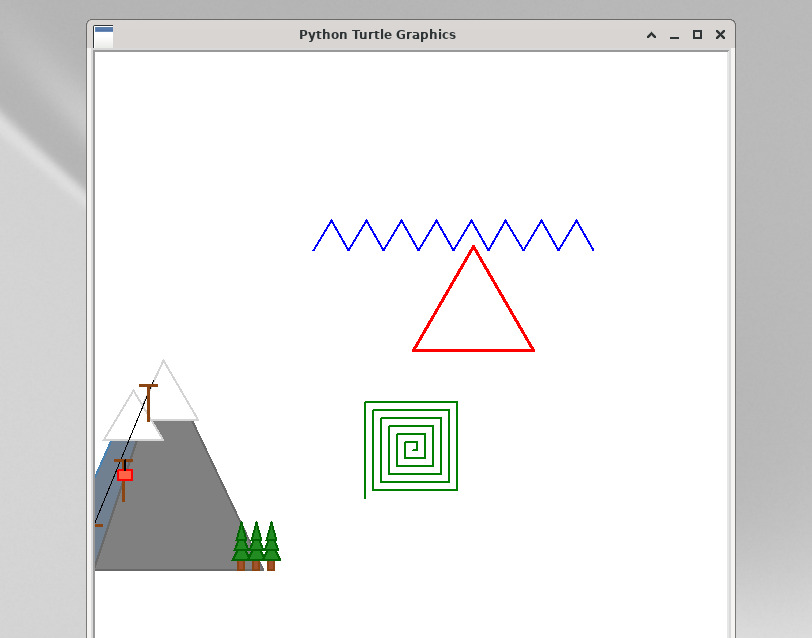
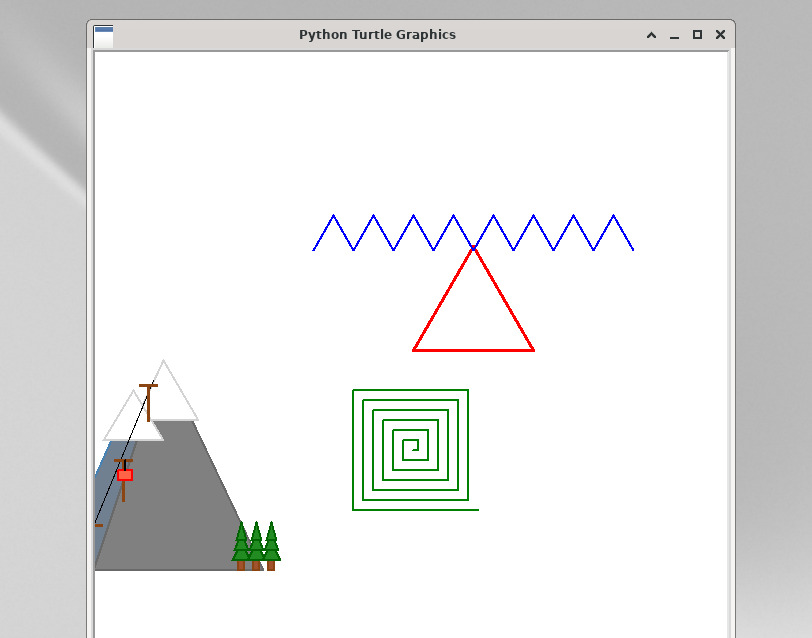
Clarify zigzag 8-peak loop and growing spiral length loop

Changed region(s): [[0.431, 0.5956, 0.585, 0.8041], [0.4002, 0.3276, 0.7081, 0.3871], [0.7389, 0.3276, 0.7697, 0.3574]]

diff --git a/A2Turtle.py b/A2Turtle.py
@@ -1,5 +1,5 @@
 # Assignment written by Jillian Hall
-# uID: REPLACE_WITH_YOUR_UID
+# uID: U1503415
 #
 # Assignment 2 - Turtle Graphics
 
@@ -32,13 +32,14 @@ zigzag.color("blue")
 zigzag.pensize(2)
 zigzag.penup()
 zigzag.goto(-100, 100)
-zigzag.setheading(60)
 zigzag.pendown()
+# Loop draws 8 peaks (each peak is left, forward, right, forward, left)
 for i in range(8):
-    zigzag.forward(35)
+    zigzag.left(60)
+    zigzag.forward(40)
     zigzag.right(120)
-    zigzag.forward(35)
-    zigzag.left(120)
+    zigzag.forward(40)
+    zigzag.left(60)
 zigzag.hideturtle()
 
 # c) Draw a square green spiral
@@ -49,11 +50,13 @@ spiral.color("green")
 spiral.pensize(2)
 spiral.penup()
 spiral.goto(0, -100)
-spiral.setheading(0)
 spiral.pendown()
-for i in range(1, 25):
-    spiral.forward(i * 4)
+# Loop grows the side length each time (square spiral)
+length = 5
+for i in range(25):
+    spiral.forward(length)
     spiral.left(90)
+    length = length + 5
 spiral.hideturtle()
 
 # d) Your own picture
